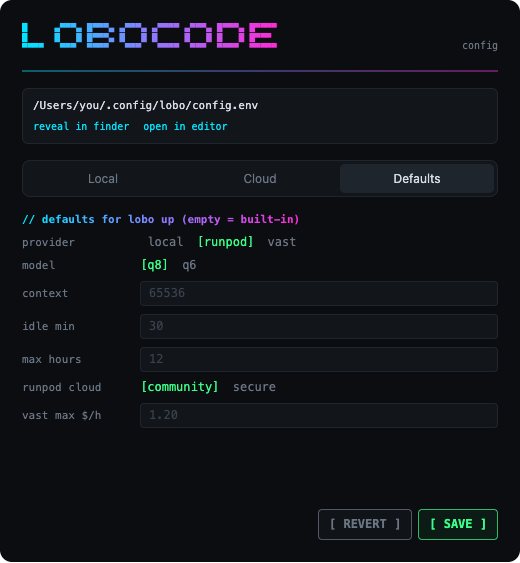
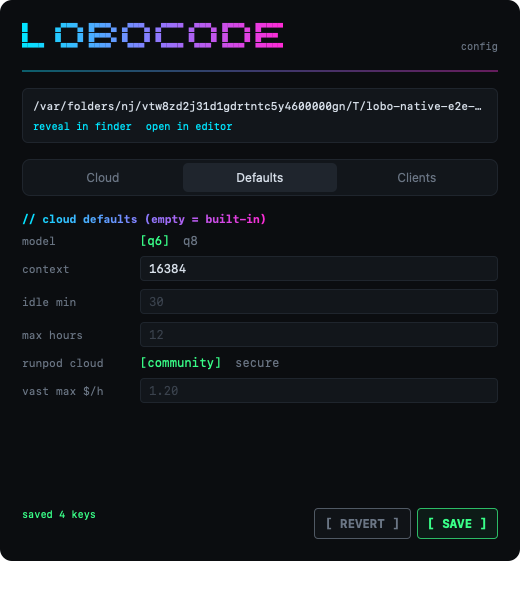
Update cloud-only app screenshots and native validation record

diff --git a/plans/2026-10-02-cloud-only-app/results.md b/plans/2026-10-02-cloud-only-app/results.md
@@ -15,3 +15,12 @@ Baseline: master4b117c3. Prior hosted run36836204672 passed units/builds/core/CL
 
 - Run36989404394 at `1f0d463`: protocol, static agent and core/CLI pass. App lint/unit/UI checks and generated fixture/type comparison pass. Production/native bundle checks are still running.
 - Whole-branch Rival Codex review completed: one high provider-selection finding and one medium hidden-local-port finding against `e3d57b6`. Both are fixed and covered in `1f0d463`; see review.md for the full output. No other material findings were reported.
+
+## Native validation
+
+- Hosted production artifact at `1f0d463`: ad-hoc signature, no bundled CLI, and removed local-supervisor mode exit2 passed.
+- Actual production bundle on this Mac: isolated legacy local config with invalid local port opened cloud Setup. No Local control. Settings had Cloud, Defaults and Clients only; Q6 selected; all controls visible and corners rounded. Clients correctly showed no active endpoint and disabled Configure. No scrolling used.
+- Native Quit stopped only task PID78171. Installed app PID51172 remained running. Isolated config bytes stayed unchanged; no local runtime state was created. Evidence: `/tmp/lobo-cloud-only-native-1f0d463` and task state receipt under `/var/folders/85/nvpy_pws0774v6l8wl87_8b80000gn/T/lobo-cloud-only-native-state-d3r2ztx9`.
+- Title-bar drag input was issued through Computer Use. The tool does not expose window position, so actual movement is not claimed. Dock/global Command-Tab behavior remains outside this feature's verified scope.
+- Run36989404394 native setup/settings save/layout passed. Removed-command test failed because the embedded driver surfaced the expected `Command choose_target not found` outside the page catch. `8bf47a7` handles only the expected rejection messages at the driver boundary; transport/unexpected errors still fail. Full native rerun is pending.
+- README Cloud/Defaults/Clients screenshots now come from that hosted native fixture run. The obsolete Local settings image is removed.

diff --git a/README.md b/README.md
@@ -113,7 +113,8 @@ The [standalone DMG](https://github.com/1905/lobocode/releases/download/app-v0.2
 
 <details><summary>Settings: Cloud, Defaults and Clients</summary>
 <p><img src="docs/img/settings_cloud.png" width="520" alt="Cloud settings: provider keys, private SSH, API key and cloud port"></p>
-<p><img src="docs/img/settings_defaults.png" width="520" alt="Defaults: model, context size, shutdown limits and provider options"></p>
+<p><img src="docs/img/settings_defaults.png" width="520" alt="Cloud defaults: model, context size and shutdown limits"></p>
+<p><img src="docs/img/settings_clients.png" width="520" alt="Clients: configure OpenCode after the cloud runtime is Ready"></p>
 </details>
 
 ## OpenCode
@@ -126,7 +127,7 @@ Setup authenticates the active endpoint and uses the running model and context l
 
 The app configures the `lobo` provider for its active cloud runtime. Existing provider restrictions remain in place and appear as warnings. A new `lobo` agent enables core coding tools and disables MCP tool and skill access. Existing custom agent controls remain unchanged.
 
-The optional CLI retains its separate export command: `lobo gen-api-key` writes `opencode.lobo.json` for manual merging. It is not required for app setup. The screenshots above predate the Clients tab; native setup acceptance remains pending.
+The optional CLI retains its separate export command: `lobo gen-api-key` writes `opencode.lobo.json` for manual merging. It is not required for app setup. The settings screenshots show native test fixtures. Cloud setup and migration checks are recorded in the [cloud-only app results](plans/2026-10-02-cloud-only-app/results.md).
 
 ## Pod image
 
